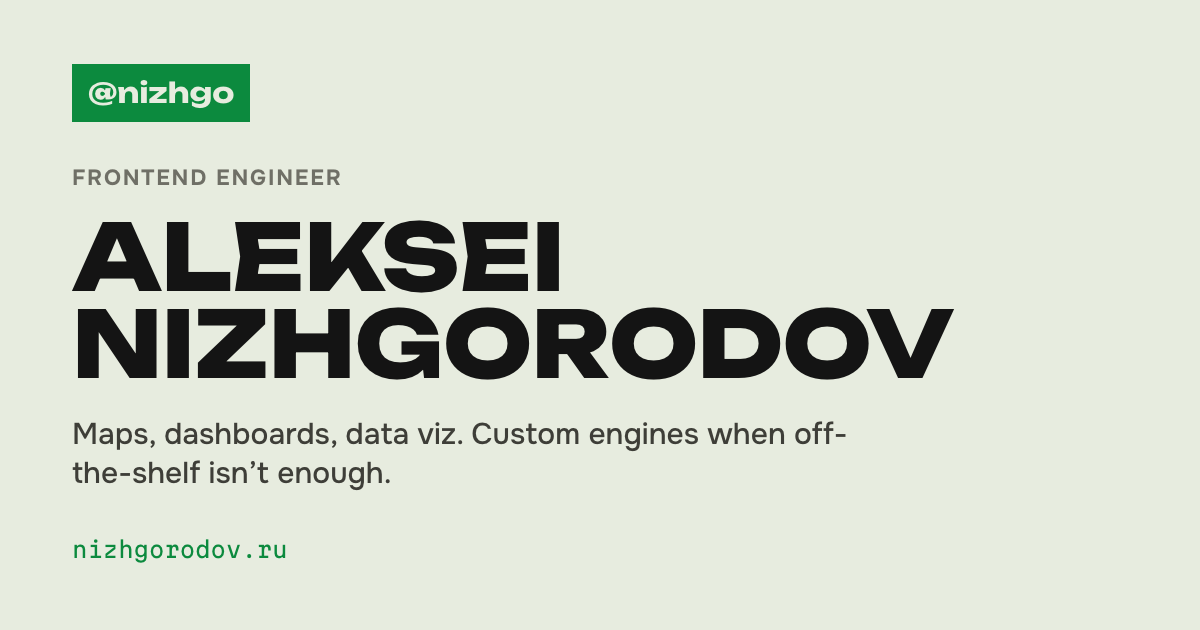
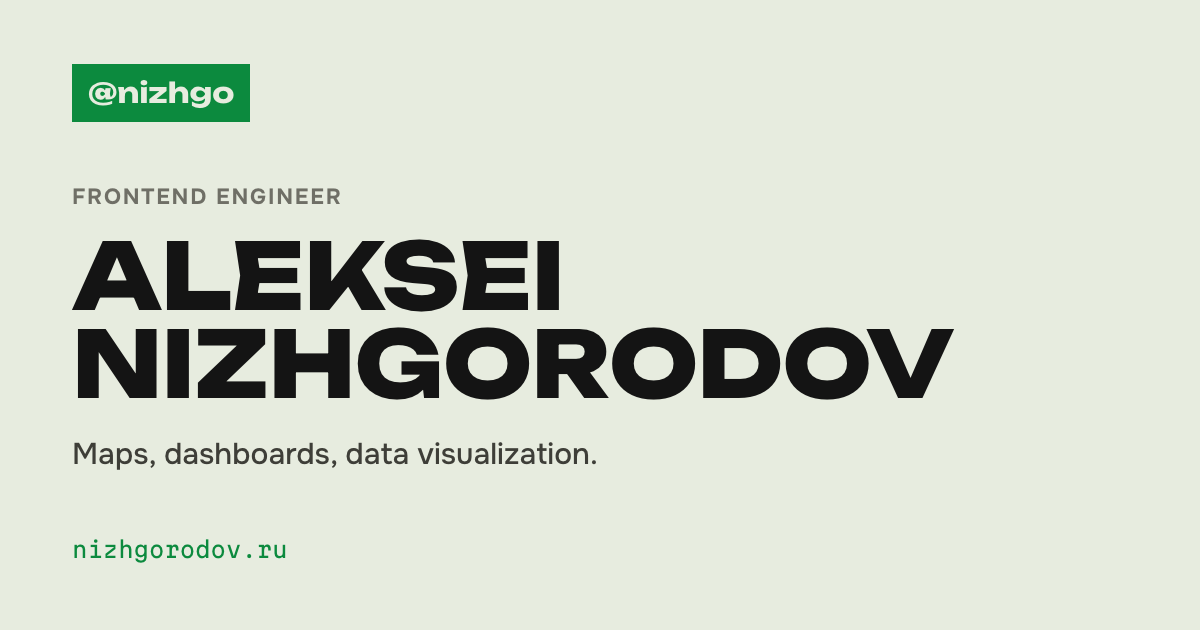
content: drop the "custom engines" flag from hero, stats, meta and OG cards
The custom-engine work is old; keep it as a concrete project detail, not a headline.

Changed region(s): [[0.0617, 0.2714, 0.8017, 0.6333], [0.0617, 0.6635, 0.7092, 0.7841]]

diff --git a/src/lib/i18n/ru.ts b/src/lib/i18n/ru.ts
@@ -4,13 +4,13 @@ export const ru: Translations = {
 	meta: {
 		title: 'Алексей Нижгородов | Frontend Engineer',
 		description:
-			'Frontend-инженер. Карты на Leaflet, дашборды, визуализации, WebGL. Пишу свои библиотеки, когда готовых не хватает. Открыт к релокейту и фрилансу.'
+			'Frontend-инженер. Карты на Leaflet, дашборды, визуализации, WebGL. Открыт к релокейту и фрилансу.'
 	},
 	hero: {
 		name: 'Алексей Нижгородов',
 		role: 'Frontend Engineer',
 		big: ['Карты,', 'дашборды,', 'визуализации'],
-		headline: 'Карты, дашборды, визуализации. Свои движки, когда готовых не хватает.',
+		headline: 'Сложный фронтенд, где много данных и графики.',
 		bio: 'Frontend-инженер, четвёртый год в коммерческой разработке. Делаю карты, дашборды и визуализации — и довожу до прода.',
 		availability: 'Открыт к релокейту и удалёнке · гибрид / офис · фриланс',
 		location: 'Москва → готов к переезду',
@@ -18,7 +18,7 @@ export const ru: Translations = {
 			{ value: '4', label: 'года во фронтенде' },
 			{ value: '8', label: 'продакшен-проектов' },
 			{ value: 'B2', label: 'английский' },
-			{ value: '∞', label: 'своих движков' }
+			{ value: '∞', label: 'карт и графиков' }
 		],
 		cta: {
 			label: 'Скачать CV',
@@ -28,7 +28,7 @@ export const ru: Translations = {
 	about: {
 		title: 'Обо мне',
 		body: [
-			'Frontend-инженер, четвёртый год в коммерческой разработке. Больше всего люблю сложное: карты на Leaflet, дашборды с тонной данных, визуализации, WebGL. Когда готовых библиотек не хватает — пишу свои.',
+			'Frontend-инженер, четвёртый год в коммерческой разработке. Больше всего люблю сложное: карты на Leaflet, дашборды с тонной данных, визуализации, WebGL.',
 			'Работал по-разному: где-то вёл команду фронтендеров — ревью, менторинг, архитектура с нуля; где-то был единственным фронтом и тащил продукт целиком.',
 			'Заканчиваю магистратуру ВШЭ по цифровой урбанистике — геоданные, Python, QGIS. Открыт к релокейту и удалёнке, беру фриланс.'
 		]

diff --git a/src/lib/i18n/en.ts b/src/lib/i18n/en.ts
@@ -4,13 +4,13 @@ export const en: Translations = {
 	meta: {
 		title: 'Aleksei Nizhgorodov | Frontend Engineer',
 		description:
-			'Frontend engineer. Leaflet maps, dashboards, data-viz, WebGL. I write my own libraries when off-the-shelf falls short. Open to relocation and freelance.'
+			'Frontend engineer. Leaflet maps, dashboards, data-viz, WebGL. Open to relocation and freelance.'
 	},
 	hero: {
 		name: 'Aleksei Nizhgorodov',
 		role: 'Frontend Engineer',
 		big: ['Maps,', 'dashboards,', 'data-viz'],
-		headline: 'Maps, dashboards, visualizations. Custom engines when off-the-shelf falls short.',
+		headline: 'Complex, data-heavy frontend.',
 		bio: 'Frontend engineer, four years in commercial development. I build maps, dashboards and visualizations — and ship them.',
 		availability: 'Open to relocation & remote · hybrid / office · freelance',
 		location: 'Moscow → open to relocation',
@@ -18,7 +18,7 @@ export const en: Translations = {
 			{ value: '4', label: 'years in frontend' },
 			{ value: '8', label: 'production projects' },
 			{ value: 'B2', label: 'English' },
-			{ value: '∞', label: 'custom engines' }
+			{ value: '∞', label: 'maps & charts' }
 		],
 		cta: {
 			label: 'Download CV',
@@ -28,7 +28,7 @@ export const en: Translations = {
 	about: {
 		title: 'About',
 		body: [
-			'Frontend engineer, four years in commercial development. I love the hard stuff most: Leaflet maps, data-heavy dashboards, visualizations, WebGL. When off-the-shelf libraries aren’t enough, I write my own.',
+			'Frontend engineer, four years in commercial development. I love the hard stuff most: Leaflet maps, data-heavy dashboards, visualizations, WebGL.',
 			'I’ve worked both ways: sometimes leading a frontend team — reviews, mentoring, architecture from scratch; sometimes the only frontend, owning a product end to end.',
 			'Finishing an HSE master’s in digital urbanism — geodata, Python, QGIS. Open to relocation and remote, available for freelance.'
 		]
